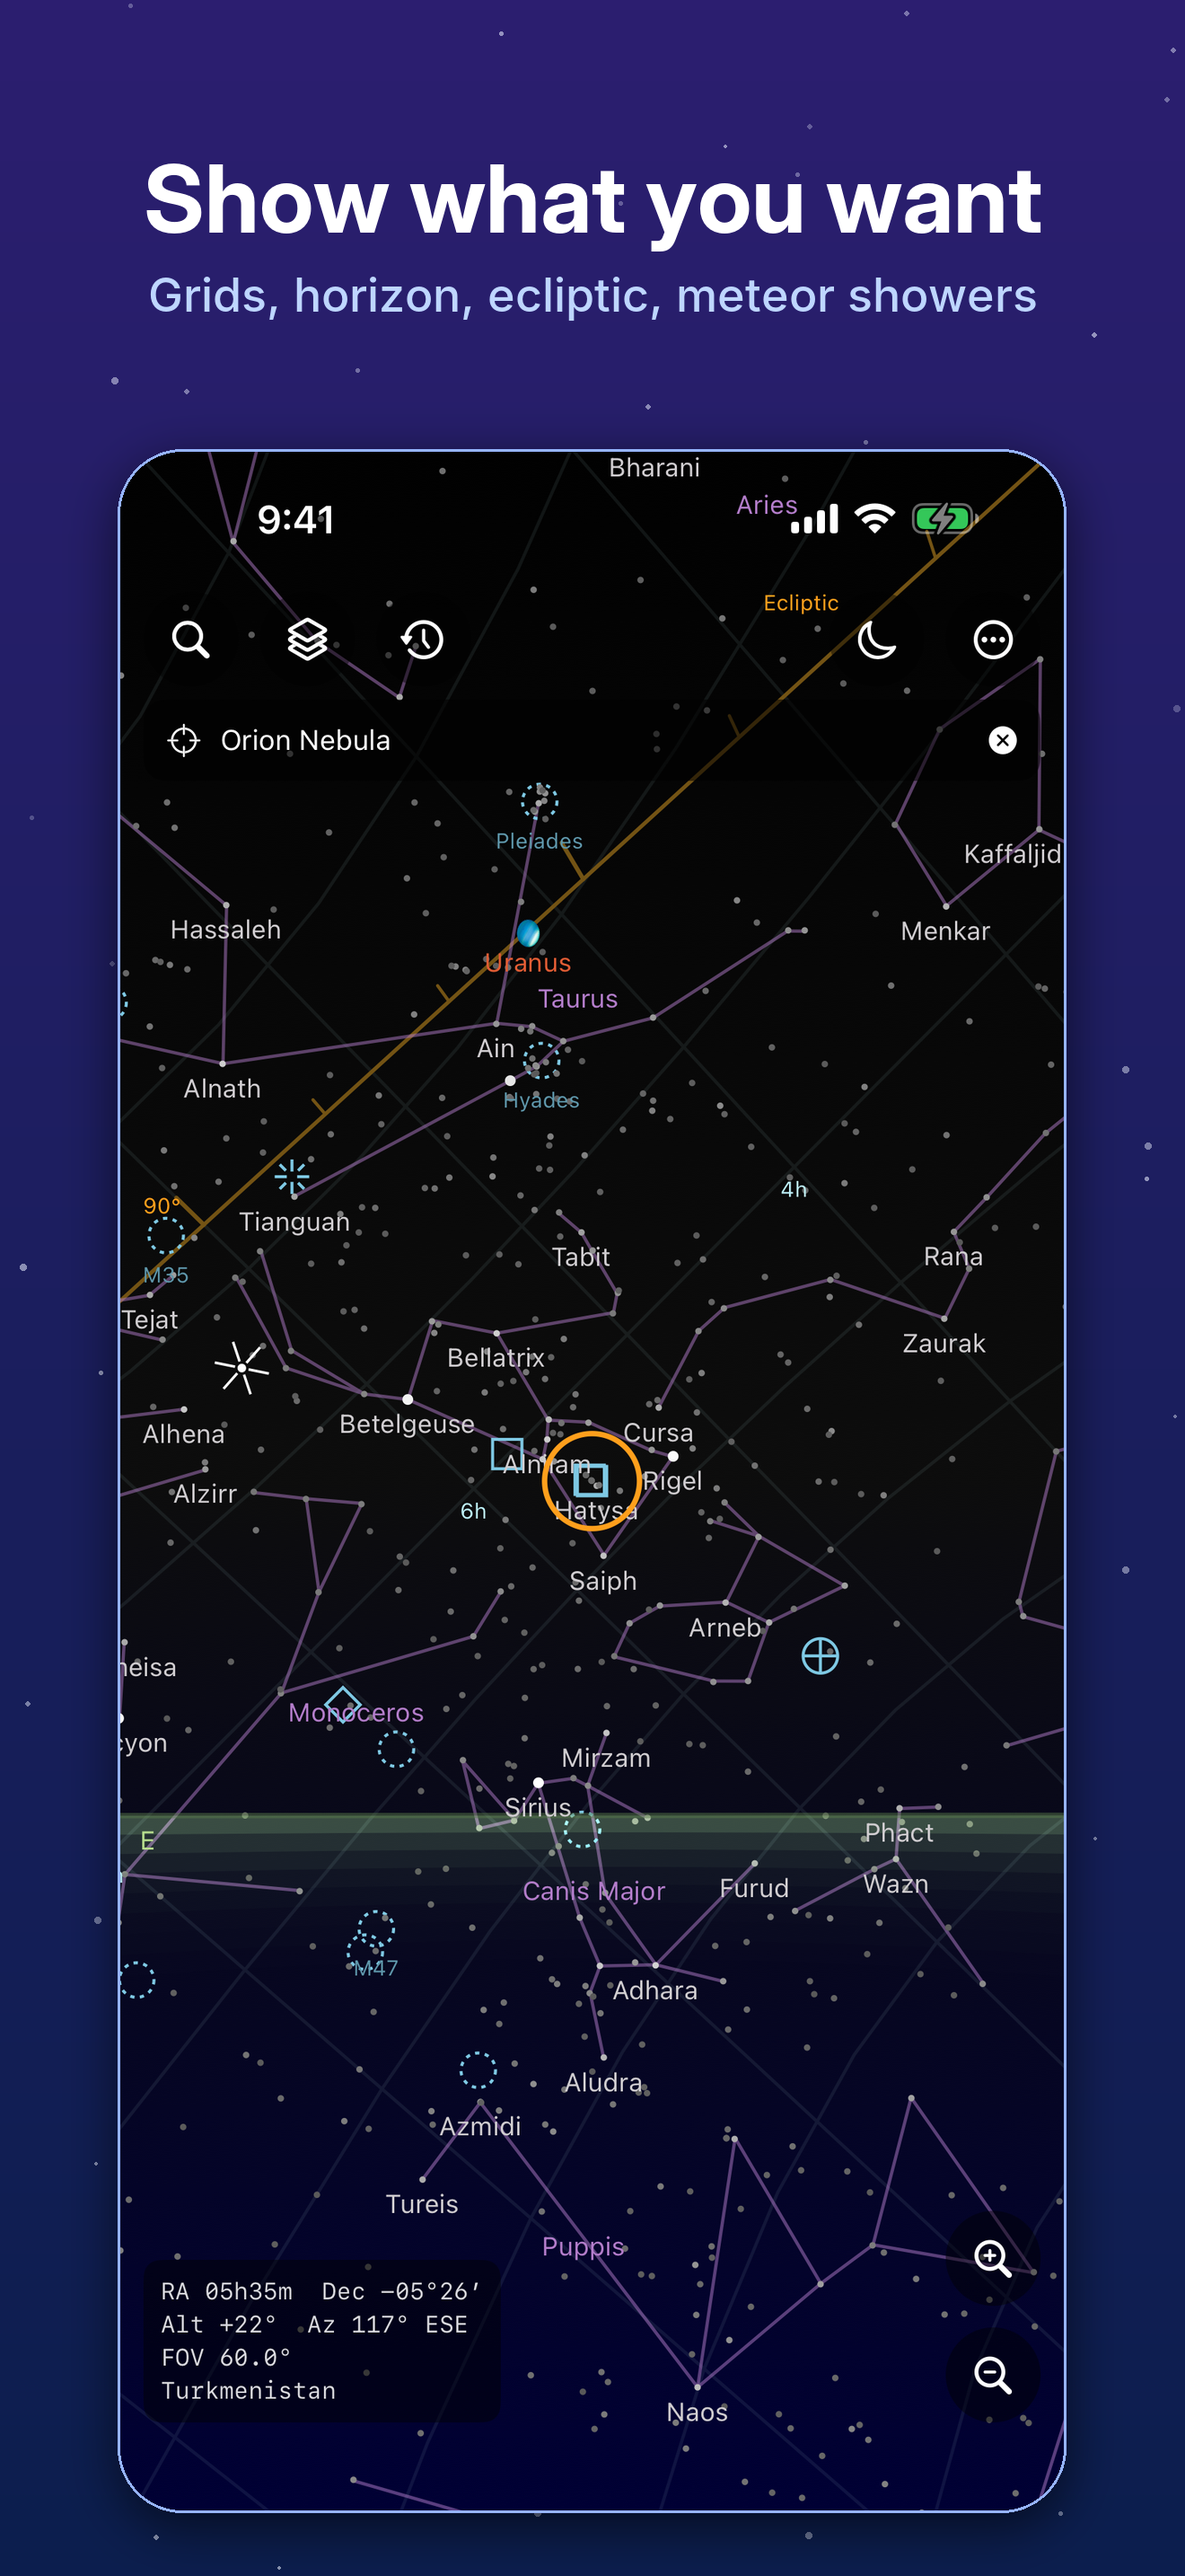
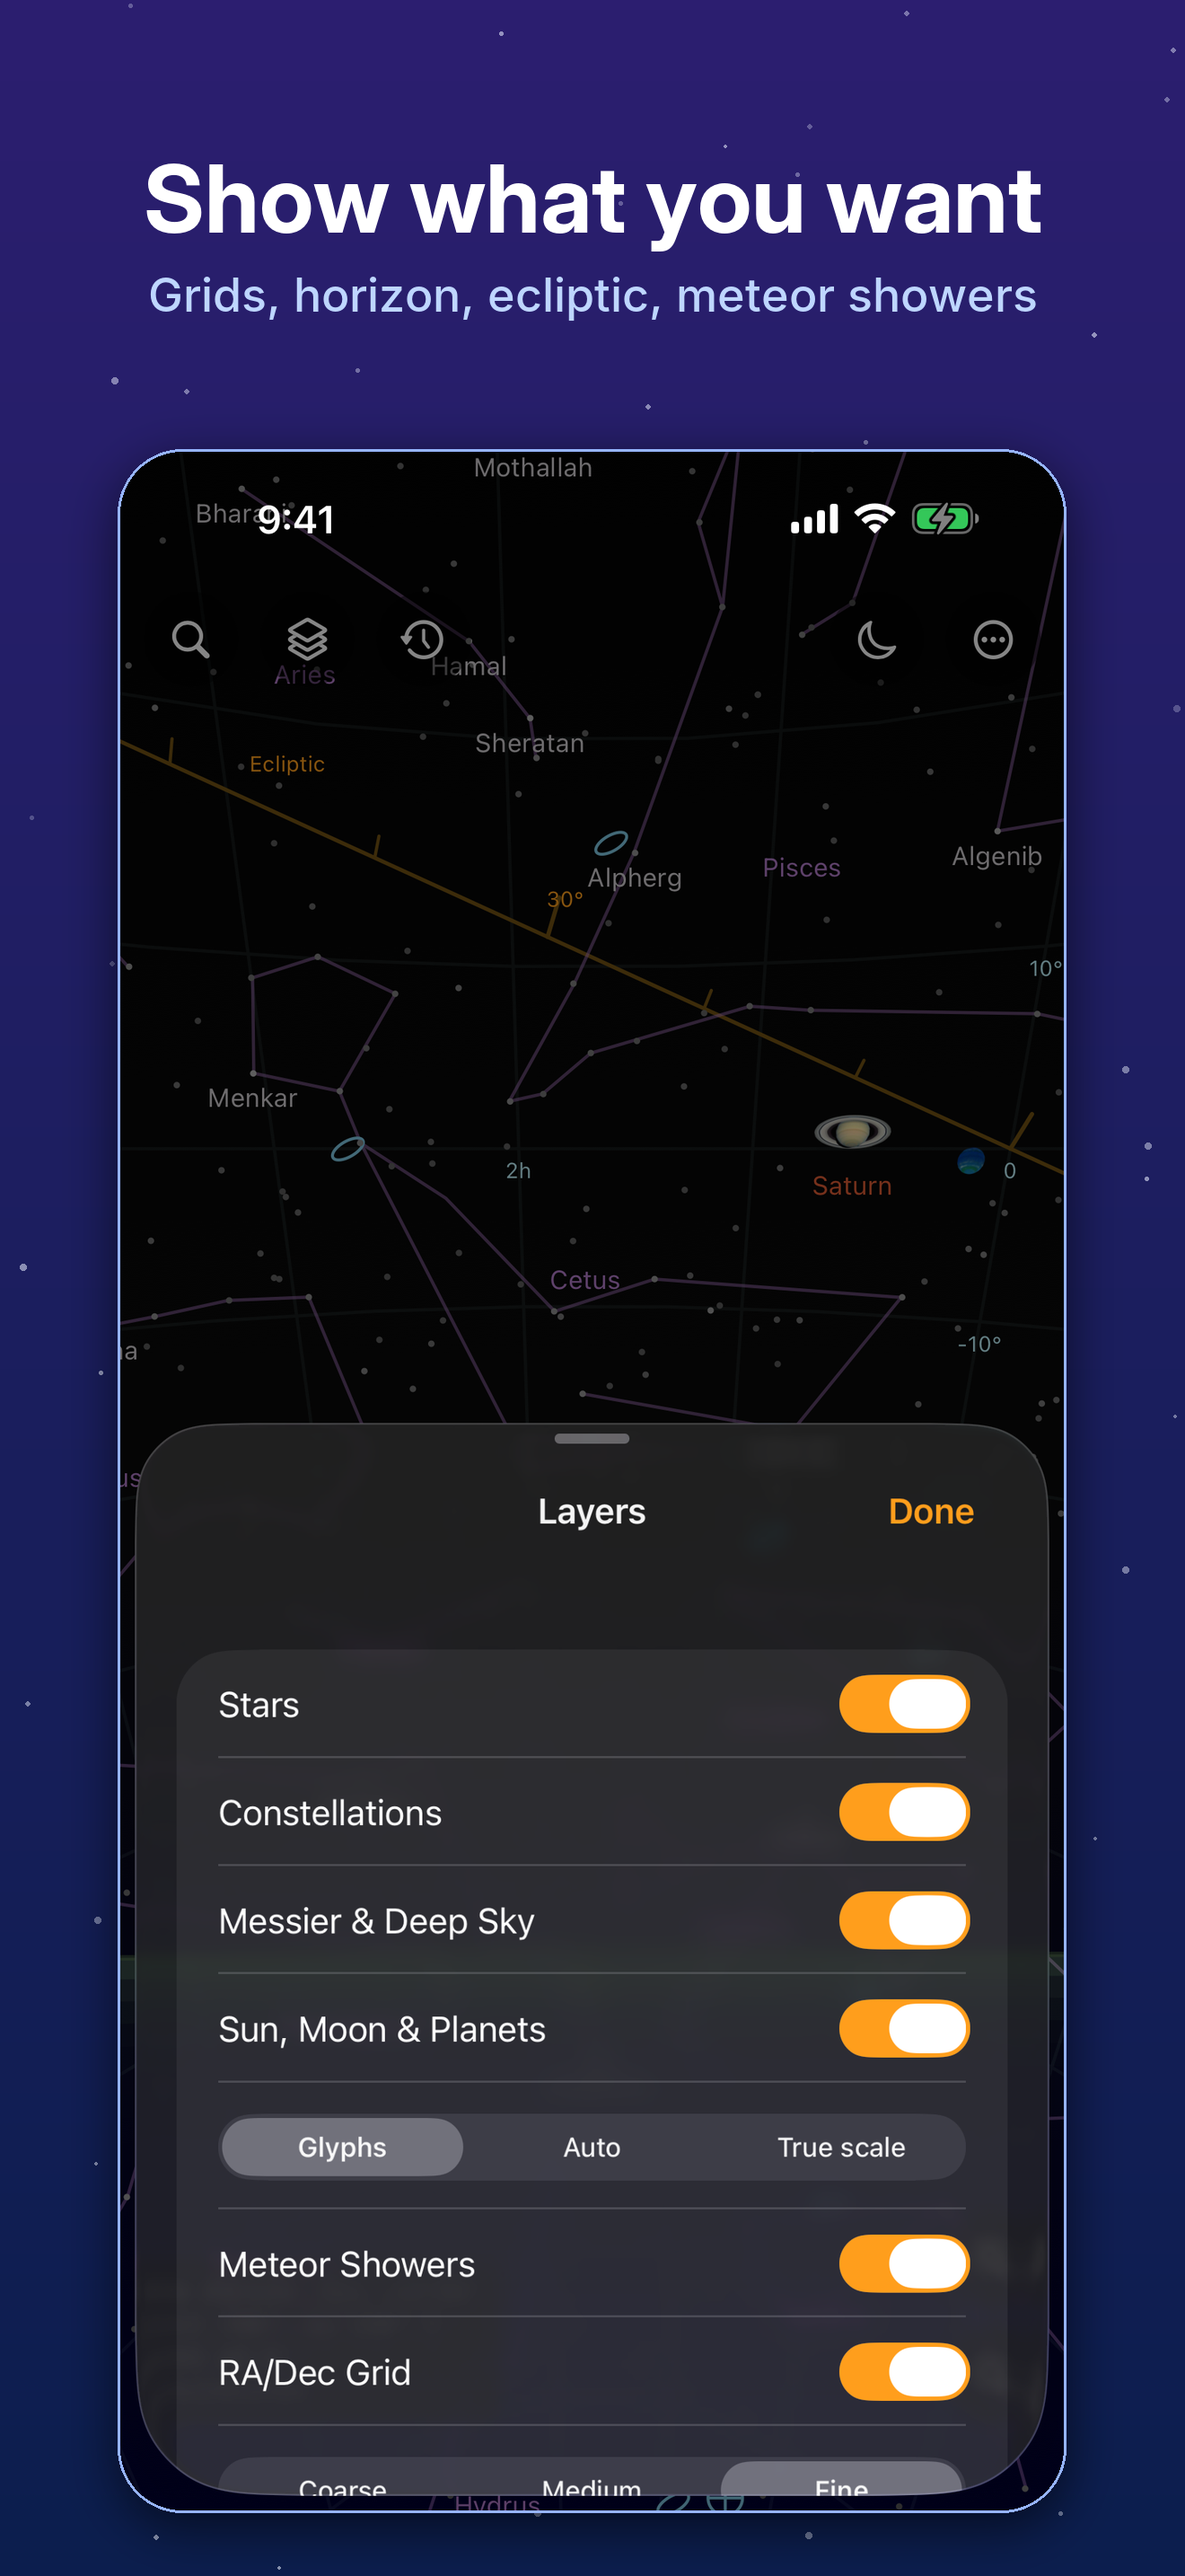
App Store screenshots: complete iPhone set (screens 06-08 from the previous run)

diff --git a/README.md b/README.md
@@ -4,3 +4,6 @@ Captured from the real app in the iOS Simulator by the
 App Store screenshots workflow at lat 38.0, lon 64.000 (late evening local time).
 
 iphone-6.9/ and ipad-13/ have caption headers (these are uploaded); raw/ has the plain captures.
+
+The iPhone set combines two runs of the same workflow (screens 01-05 from one, 06-08 from the
+previous one, where a test timing issue had not occurred); every image is a real capture.
